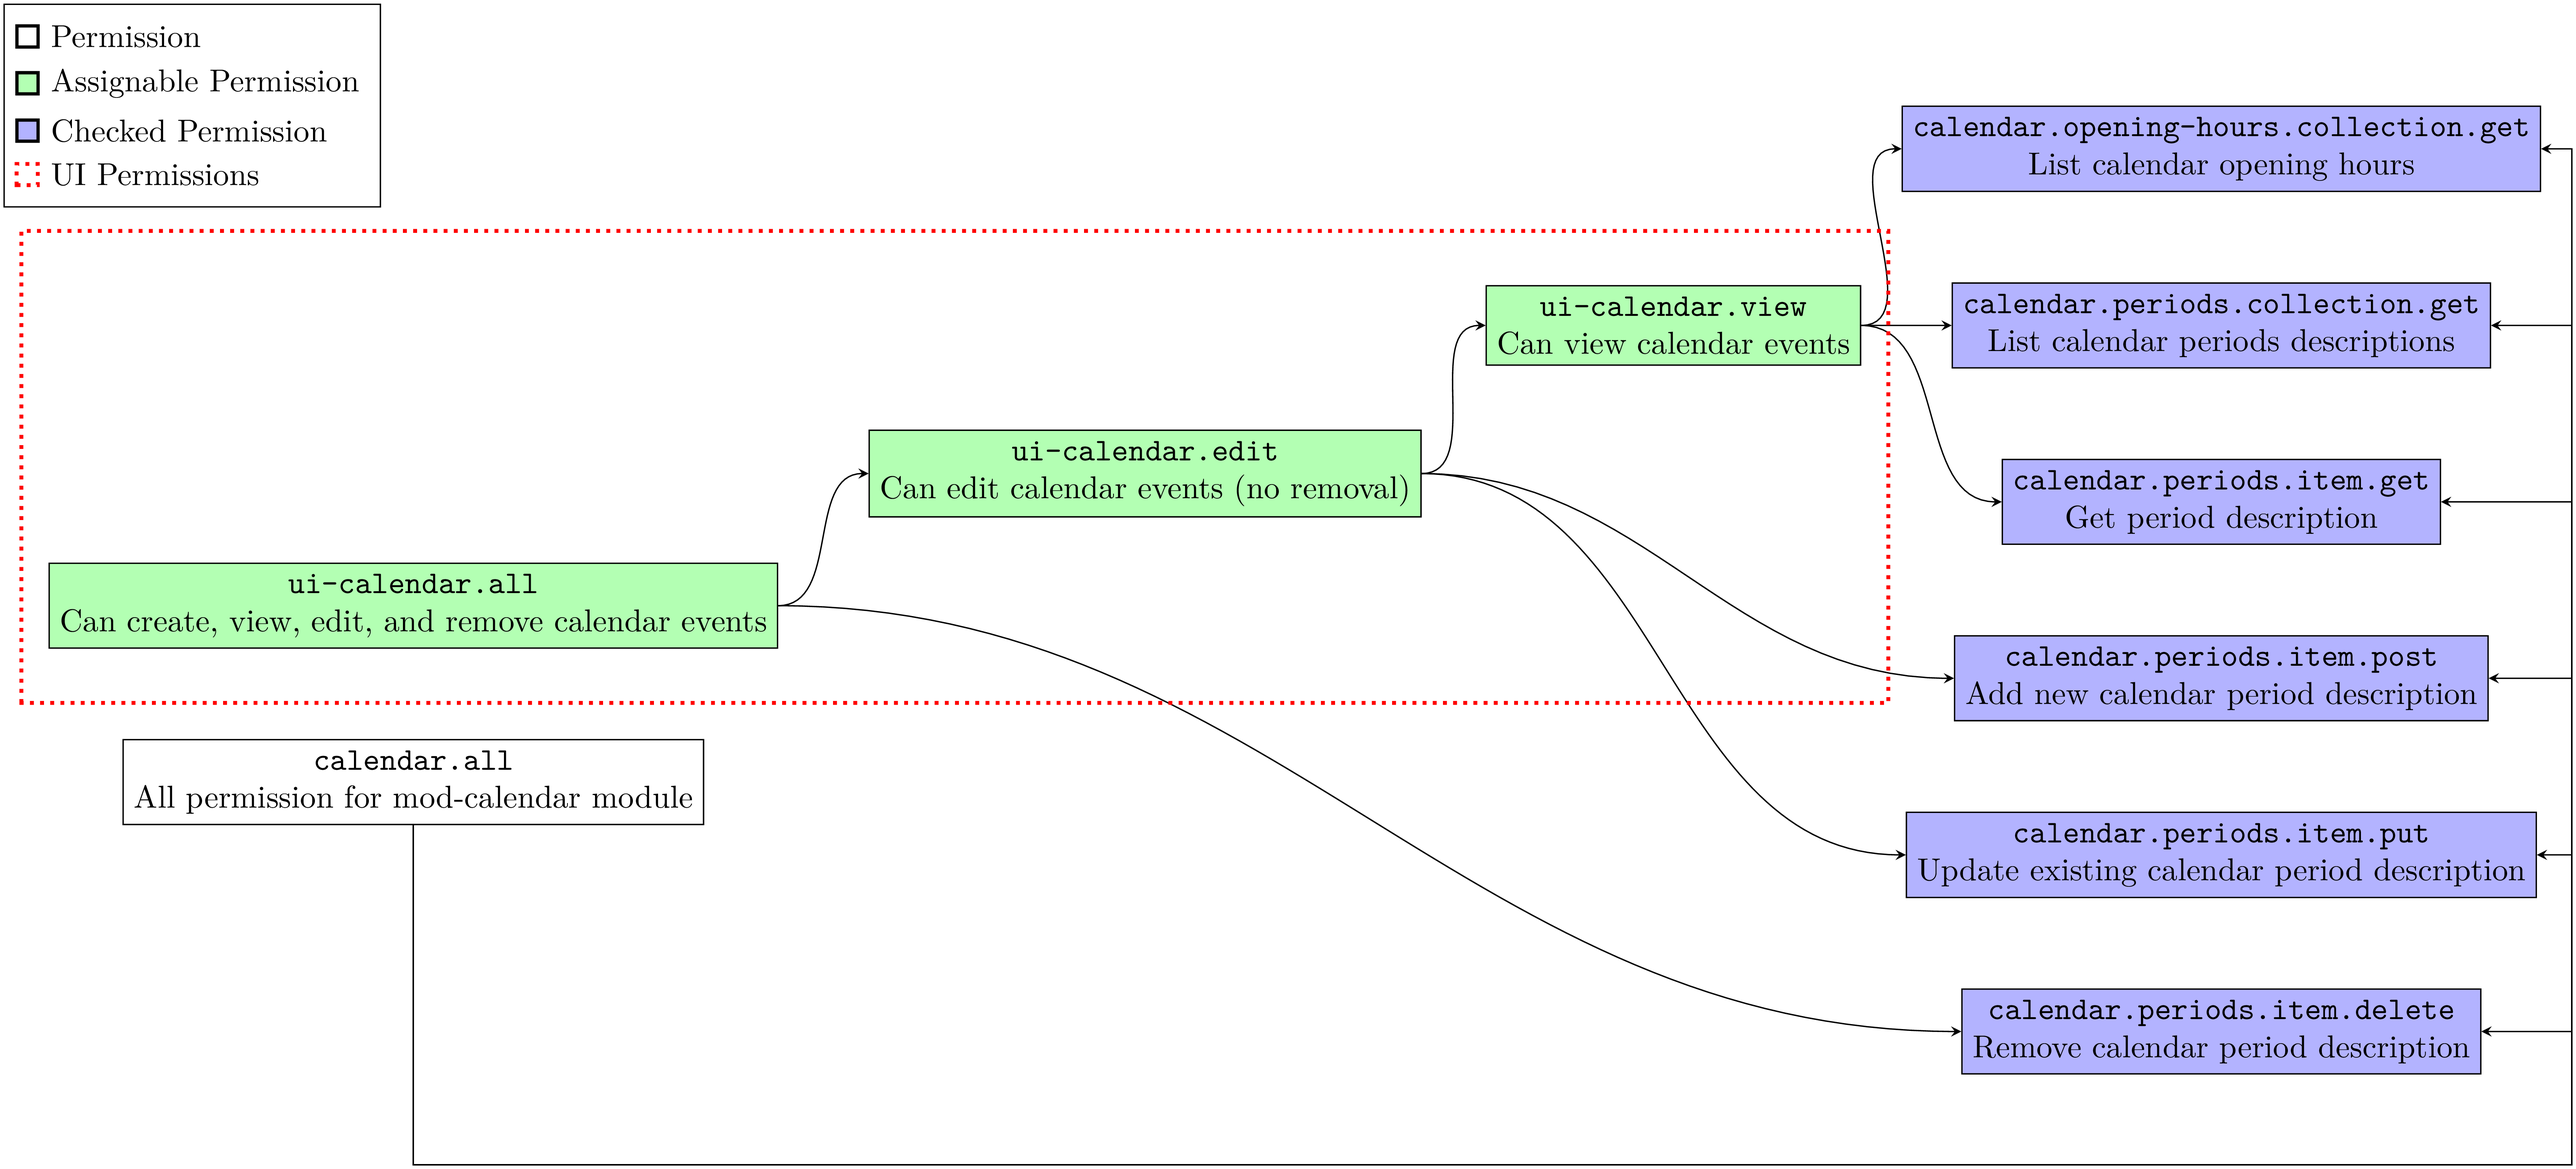
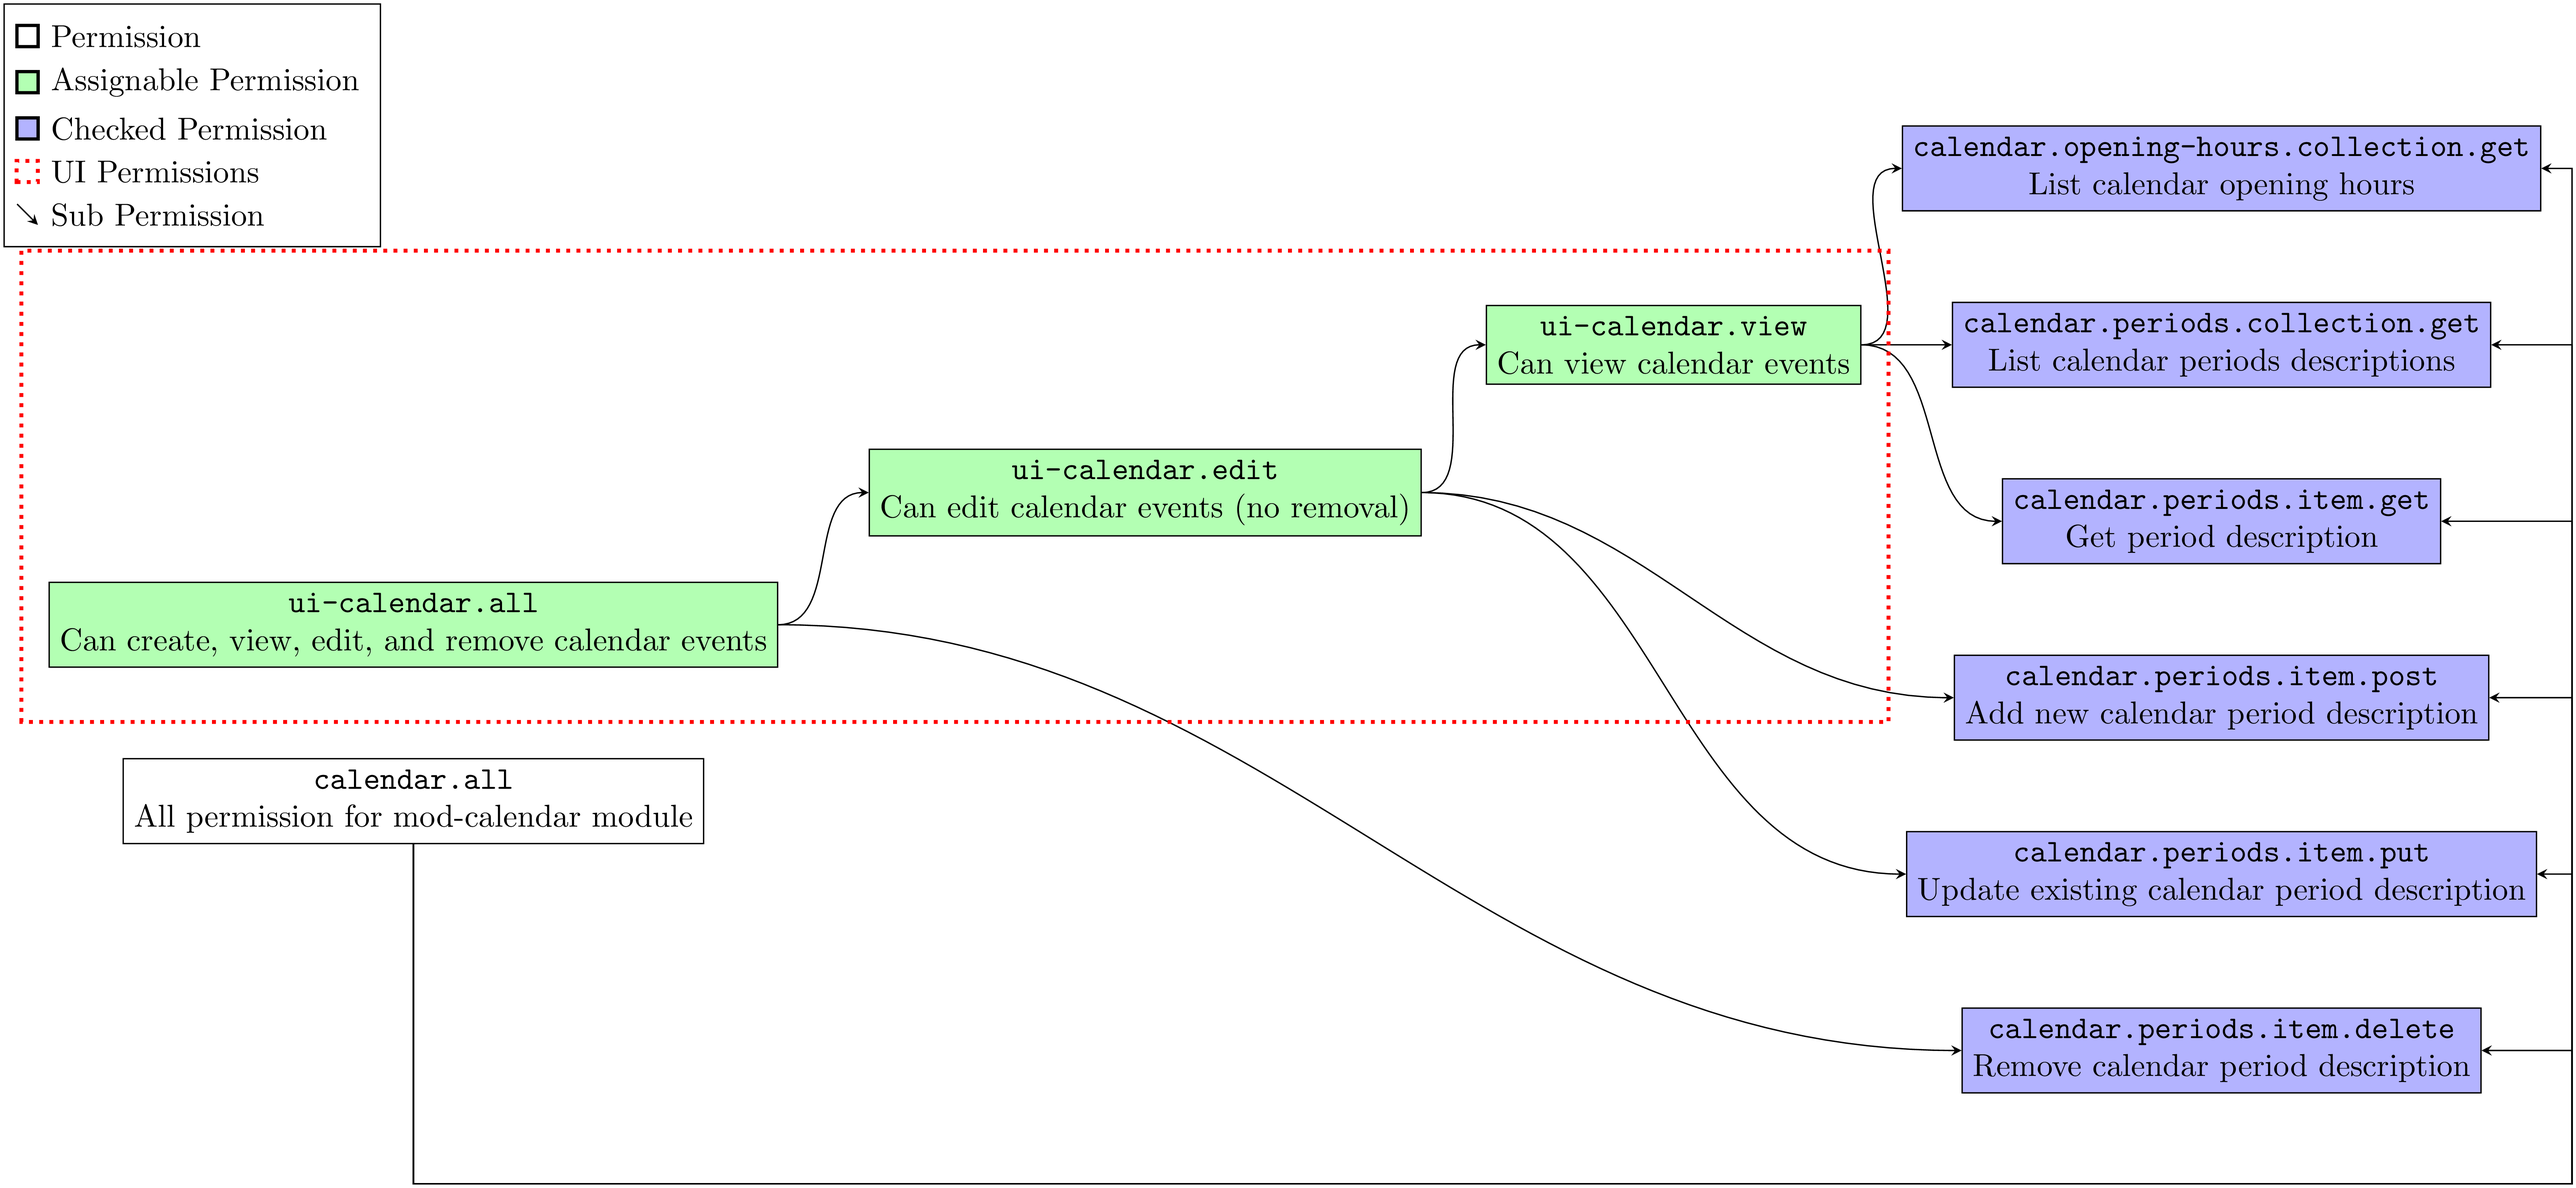
Fix Permission Legends (close #3)

diff --git a/docs/mod-calendar-2.0-changes/permissions/final.tex b/docs/mod-calendar-2.0-changes/permissions/final.tex
@@ -96,12 +96,10 @@
     \node [shape=rectangle,   draw=red,        dotted,   very thick, label=right:UI Permissions] {}; \\
     \node [shape=rectangle, draw=white,    fill=white, line width=1, label=right:Sub Permission] (subperm) {}; \\
     \node [shape=rectangle, draw=white,    fill=white, line width=1, label=right:Removed Sub Permission] (subpermremoved) {}; \\
-    \node [shape=rectangle, draw=white,    fill=white, line width=1, label=right:New Sub Permission] (subpermcreated) {}; \\
     \node [shape=rectangle, draw=black,    fill=white, line width=1, label=right:Removed Permissions] (removed) {}; \\
   };
   \draw[->] ($(subperm.north west)+(.02,-.02)$) -- ($(subperm.south east)+(-.02,.02)$);
   \draw[->, red] ($(subpermremoved.north west)+(.02,-.02)$) -- ($(subpermremoved.south east)+(-.02,.02)$);
-  \draw[->, very thick] ($(subpermcreated.north west)+(.02,-.02)$) -- ($(subpermcreated.south east)+(-.02,.02)$);
   \draw[-][red, very thick, line cap=round] ($(removed.north west)+(.02,-.02)$) -- ($(removed.south east)+(-.02,.02)$);
 \end{tikzpicture}
 

diff --git a/docs/mod-calendar-2.0-changes/permissions/current.tex b/docs/mod-calendar-2.0-changes/permissions/current.tex
@@ -53,7 +53,10 @@
     \node [shape=rectangle, draw=black, fill=green!30, line width=1, label=right:Assignable Permission] {}; \\
     \node [shape=rectangle, draw=black,  fill=blue!30, line width=1, label=right:Checked Permission] {}; \\
     \node [shape=rectangle, draw=red,          dotted,   very thick, label=right:UI Permissions] {}; \\
+    \node [shape=rectangle, draw=white,    fill=white, line width=1, label=right:Sub Permission] (subperm) {}; \\
   };
+  \draw[->] ($(subperm.north west)+(.02,-.02)$) -- ($(subperm.south east)+(-.02,.02)$);
+
 \end{tikzpicture}
 
 \end{document}
